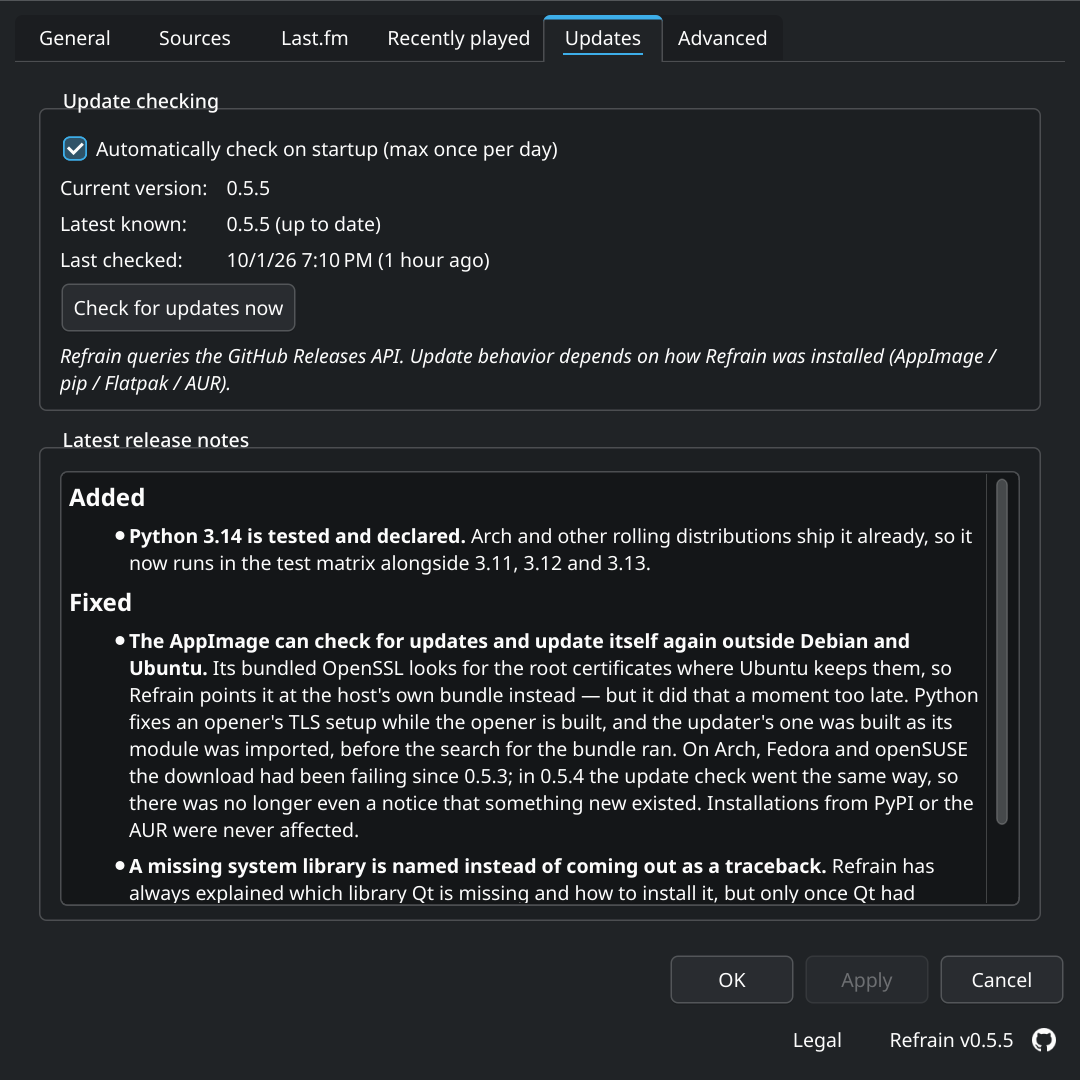
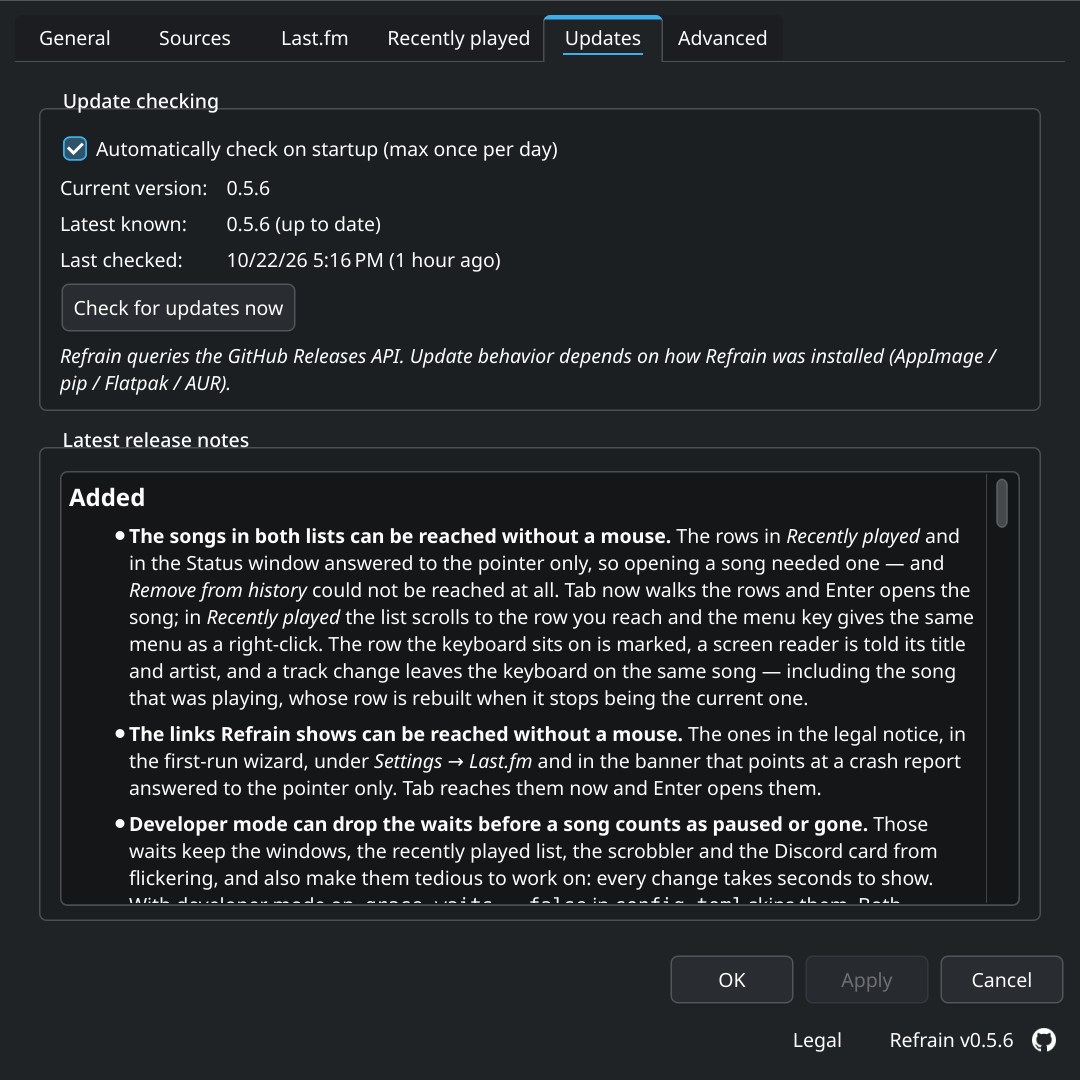
Release v0.5.6

Changed region(s): [[0.0611, 0.4889, 0.9472, 0.8556], [0.2444, 0.2139, 0.4583, 0.275]]

diff --git a/src/refrain/__init__.py b/src/refrain/__init__.py
@@ -1,4 +1,4 @@
-__version__ = "0.5.5"
+__version__ = "0.5.6"
 
 # One line for every outgoing request, so operators who see it in their
 # logs land on the project rather than guessing.

diff --git a/CHANGELOG.md b/CHANGELOG.md
@@ -7,7 +7,7 @@ and this project adheres to [Semantic Versioning](https://semver.org/spec/v2.0.0
 Versions that no longer work were taken down; [docs/releases.md](docs/releases.md)
 lists every version and why.
 
-## [Unreleased]
+## [0.5.6] - 2026-10-22
 
 ### Added
 
@@ -2429,7 +2429,8 @@ with a proper, installable Linux app.
   pip-audit, trufflehog, release), Dependabot, issue + PR templates,
   `CONTRIBUTING.md`, `CODE_OF_CONDUCT.md`, `SECURITY.md`.
 
-[Unreleased]: https://github.com/Rockykln/refrain/compare/v0.5.5...HEAD
+[Unreleased]: https://github.com/Rockykln/refrain/compare/v0.5.6...HEAD
+[0.5.6]: https://github.com/Rockykln/refrain/compare/v0.5.5...v0.5.6
 [0.5.5]: https://github.com/Rockykln/refrain/compare/v0.5.4...v0.5.5
 [0.5.4]: https://github.com/Rockykln/refrain/compare/v0.5.3...v0.5.4
 [0.5.3]: https://github.com/Rockykln/refrain/compare/v0.5.2...v0.5.3

diff --git a/README.md b/README.md
@@ -237,19 +237,19 @@ inside the app under **Settings → Legal**.
 
 | Stat | Value |
 |---|---|
-| Lines of code | 14,000 |
-| Lines in the repository | 96,410 |
-| Words in the repository | 341,498 |
-| Words of documentation | 51,590 |
-| Automated tests | 2,510 |
+| Lines of code | 14,539 |
+| Lines in the repository | 102,005 |
+| Words in the repository | 368,361 |
+| Words of documentation | 55,849 |
+| Automated tests | 2,603 |
 | Test coverage | 100 % |
-| Days since the first release | 149 |
-| Versions released | 26 |
-| Commits | 275 |
+| Days since the first release | 170 |
+| Versions released | 27 |
+| Commits | 337 |
 | Languages | 16 |
 | Runtime dependencies | 3 |
 | Browsers tested | 6 (Chrome, Chromium, Brave, Vivaldi, Firefox, Zen) |
 | Ways to install | 3 (PyPI, AUR, AppImage) |
 
-As of v0.5.5.
+As of v0.5.6.
 <!-- stats:end -->

diff --git a/docs/releases.md b/docs/releases.md
@@ -11,6 +11,7 @@ keep working.
 
 | Version | Released | Get it from |
 |---------|----------|-------------|
+| 0.5.6 | 2026-10-22 | PyPI, AUR, GitHub (with AppImage) |
 | 0.5.5 | 2026-10-01 | PyPI, AUR, GitHub (with AppImage) |
 | 0.5.4 | 2026-09-27 | PyPI, AUR, GitHub (with AppImage) |
 | 0.5.3 | 2026-09-20 | PyPI, AUR, GitHub (with AppImage) |
